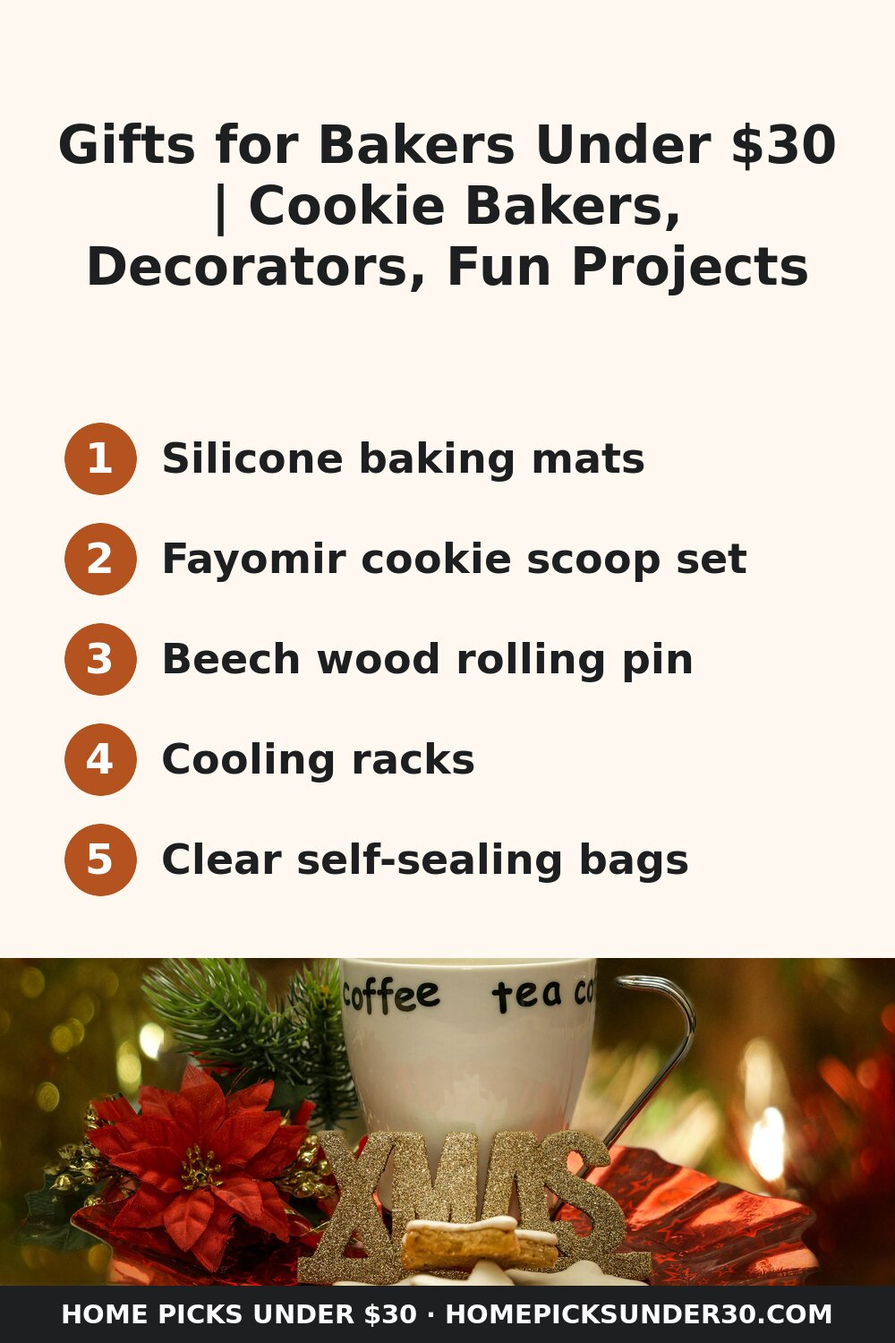
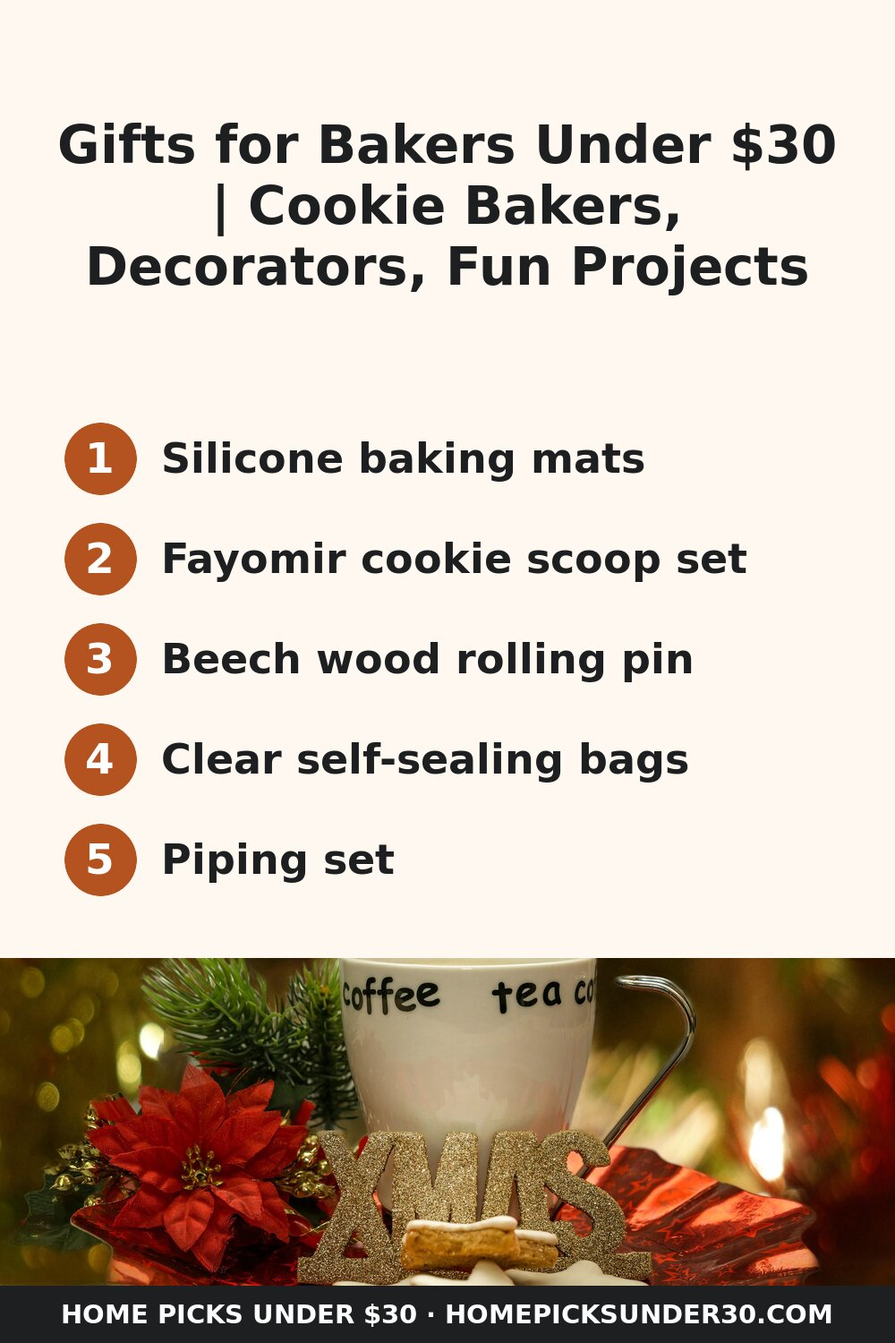
Publish blog fb5fa2de13113cb02a1fbd917edf00115526858e

diff --git a/blog/posts/gifts-for-bakers-under-30/index.html b/blog/posts/gifts-for-bakers-under-30/index.html
@@ -4,11 +4,11 @@
 <meta charset="utf-8">
 <meta name="viewport" content="width=device-width, initial-scale=1">
 <title>Best Gifts for Bakers Under $30 (Cookies, Decorating, Fun)</title>
-<meta name="description" content="Gifts for bakers under $30, sorted by the kind of baker: the Christmas cookie baker, the decorator, the one with scorched oven mitts, and the baker who wants a fun project.">
+<meta name="description" content="Gifts for bakers under $30, sorted by the kind of baker: the Christmas cookie baker, the decorator, the bread baker, the one with scorched oven mitts, and the baker who wants a fun project.">
 <link rel="canonical" href="https://homepicksunder30.com/blog/posts/gifts-for-bakers-under-30/">
 <meta property="og:type" content="article">
 <meta property="og:title" content="Best Gifts for Bakers Under $30 (Cookies, Decorating, Fun)">
-<meta property="og:description" content="Gifts for bakers under $30, sorted by the kind of baker: the Christmas cookie baker, the decorator, the one with scorched oven mitts, and the baker who wants a fun project.">
+<meta property="og:description" content="Gifts for bakers under $30, sorted by the kind of baker: the Christmas cookie baker, the decorator, the bread baker, the one with scorched oven mitts, and the baker who wants a fun project.">
 <meta property="og:url" content="https://homepicksunder30.com/blog/posts/gifts-for-bakers-under-30/">
 <meta property="og:site_name" content="Home Picks Under $30">
 <meta property="og:image" content="https://homepicksunder30.com/blog/images/gifts-for-bakers-under-30-cover.jpg">
@@ -97,7 +97,7 @@ article p img{width:100%;aspect-ratio:3/2;object-fit:cover}
 footer.site{border-top:1px solid var(--line);padding:20px 0 32px;color:var(--muted);font-size:.85rem}
 footer.site a{color:var(--muted)}
 </style>
-<script type="application/ld+json">{"@context":"https://schema.org","@type":"BlogPosting","headline":"Gifts for Bakers Under $30: One Pick for Every Kind of Baker","description":"Gifts for bakers under $30, sorted by the kind of baker: the Christmas cookie baker, the decorator, the one with scorched oven mitts, and the baker who wants a fun project.","datePublished":"2026-10-23","dateModified":"2026-10-23","author":{"@type":"Person","name":"Mak"},"mainEntityOfPage":"https://homepicksunder30.com/blog/posts/gifts-for-bakers-under-30/","image":"https://homepicksunder30.com/blog/images/gifts-for-bakers-under-30-cover.jpg","keywords":"best gifts for bakers under $30"}</script>
+<script type="application/ld+json">{"@context":"https://schema.org","@type":"BlogPosting","headline":"Gifts for Bakers Under $30: One Pick for Every Kind of Baker","description":"Gifts for bakers under $30, sorted by the kind of baker: the Christmas cookie baker, the decorator, the bread baker, the one with scorched oven mitts, and the baker who wants a fun project.","datePublished":"2026-10-23","dateModified":"2026-10-23","author":{"@type":"Person","name":"Mak"},"mainEntityOfPage":"https://homepicksunder30.com/blog/posts/gifts-for-bakers-under-30/","image":"https://homepicksunder30.com/blog/images/gifts-for-bakers-under-30-cover.jpg","keywords":"best gifts for bakers under $30"}</script>
 <script type="application/ld+json">{"@context":"https://schema.org","@type":"FAQPage","mainEntity":[{"@type":"Question","name":"What if I don't know what baking tools they already own?","acceptedAnswer":{"@type":"Answer","text":"Go with the silicone baking mats or the oven mitts. Bakers wear both out, and a second set never goes to waste."}},{"@type":"Question","name":"Is a cookie scoop worth it?","acceptedAnswer":{"@type":"Answer","text":"For someone who bakes cookies often, yes. Same-size dough balls bake at the same rate, so fewer cookies come out burnt or underdone in the same batch."}},{"@type":"Question","name":"Can I put a few small gifts together?","acceptedAnswer":{"@type":"Answer","text":"Yes. The rolling pin plus the scoop set, or the scoop set plus the clear bags, make a nice bundle that stays under a small budget. Add a handwritten recipe card to make it personal. For more ideas, see stocking stuffers for people who cook, gifts for a coffee lover or the kitchen gifts under $30 guide. Pick the baker type, then check the current price on Amazon. For a holiday gift, check the delivery date Amazon shows before you order."}}]}</script>
 </head>
 <body>
@@ -114,7 +114,7 @@ footer.site a{color:var(--muted)}
 <p>Every family has one: the person who bakes six kinds of cookies in December and hands them out in tins. They already own a mixer and a stack of sheet pans. What wears out are the small things they use every batch, and those make the best gifts.</p>
 <p>I haven't used these myself. I picked them from the listings for what each one does, how often a baker would reach for it, and whether it works without knowing what they already own, and I say who each one suits.</p>
 <p><strong>Start here:</strong> most bakers would use the <a href="https://amzn.to/4sjyVd7" rel="sponsored nofollow noopener" target="_blank" data-goatcounter-click="https://amzn.to/4sjyVd7" data-goatcounter-title="Amazon Basics silicone baking mats (4-pack)">Amazon Basics silicone baking mats (4-pack)</a>. Pick the <a href="https://link.amazon/B0bi7rFO2" rel="sponsored nofollow noopener" target="_blank" data-goatcounter-click="https://link.amazon/B0bi7rFO2" data-goatcounter-title="Fayomir cookie scoop set">Fayomir cookie scoop set</a> instead if they bake cookies by the dozen.</p>
-<div class="picks"><p class="picks-title">Quick picks</p><ul><li><span class="pk-label">For any baker, or if you're unsure</span><span class="pk-name">Amazon Basics silicone baking mats (4-pack)</span><a class="pk-btn" href="https://amzn.to/4sjyVd7" rel="sponsored nofollow noopener" target="_blank" data-goatcounter-click="https://amzn.to/4sjyVd7" data-goatcounter-title="Amazon Basics silicone baking mats (4-pack)">Check price on Amazon</a></li><li><span class="pk-label">For the cookie baker</span><span class="pk-name">Fayomir cookie scoop set (1, 2 and 3 Tbsp)</span><a class="pk-btn" href="https://link.amazon/B0bi7rFO2" rel="sponsored nofollow noopener" target="_blank" data-goatcounter-click="https://link.amazon/B0bi7rFO2" data-goatcounter-title="Fayomir cookie scoop set (1, 2 and 3 Tbsp)">Check price on Amazon</a></li><li><span class="pk-label">For the decorator</span><span class="pk-name">Piping bags and tips set (124 pieces)</span><a class="pk-btn" href="https://amzn.to/4dBeBO5" rel="sponsored nofollow noopener" target="_blank" data-goatcounter-click="https://amzn.to/4dBeBO5" data-goatcounter-title="Piping bags and tips set (124 pieces)">Check price on Amazon</a></li><li><span class="pk-label">For scorched old mitts</span><span class="pk-name">GORILLA GRIP silicone oven mitts</span><a class="pk-btn" href="https://amzn.to/47p2NLi" rel="sponsored nofollow noopener" target="_blank" data-goatcounter-click="https://amzn.to/47p2NLi" data-goatcounter-title="GORILLA GRIP silicone oven mitts">Check price on Amazon</a></li><li><span class="pk-label">For a fun project</span><span class="pk-name">Dash Express mini donut maker</span><a class="pk-btn" href="https://amzn.to/4hRGJxR" rel="sponsored nofollow noopener" target="_blank" data-goatcounter-click="https://amzn.to/4hRGJxR" data-goatcounter-title="Dash Express mini donut maker">Check price on Amazon</a></li></ul></div>
+<div class="picks"><p class="picks-title">Quick picks</p><ul><li><span class="pk-label">For any baker, or if you're unsure</span><span class="pk-name">Amazon Basics silicone baking mats (4-pack)</span><a class="pk-btn" href="https://amzn.to/4sjyVd7" rel="sponsored nofollow noopener" target="_blank" data-goatcounter-click="https://amzn.to/4sjyVd7" data-goatcounter-title="Amazon Basics silicone baking mats (4-pack)">Check price on Amazon</a></li><li><span class="pk-label">For the cookie baker</span><span class="pk-name">Fayomir cookie scoop set (1, 2 and 3 Tbsp)</span><a class="pk-btn" href="https://link.amazon/B0bi7rFO2" rel="sponsored nofollow noopener" target="_blank" data-goatcounter-click="https://link.amazon/B0bi7rFO2" data-goatcounter-title="Fayomir cookie scoop set (1, 2 and 3 Tbsp)">Check price on Amazon</a></li><li><span class="pk-label">For the decorator</span><span class="pk-name">Piping bags and tips set (124 pieces)</span><a class="pk-btn" href="https://amzn.to/4dBeBO5" rel="sponsored nofollow noopener" target="_blank" data-goatcounter-click="https://amzn.to/4dBeBO5" data-goatcounter-title="Piping bags and tips set (124 pieces)">Check price on Amazon</a></li><li><span class="pk-label">For scorched old mitts</span><span class="pk-name">GORILLA GRIP silicone oven mitts</span><a class="pk-btn" href="https://amzn.to/47p2NLi" rel="sponsored nofollow noopener" target="_blank" data-goatcounter-click="https://amzn.to/47p2NLi" data-goatcounter-title="GORILLA GRIP silicone oven mitts">Check price on Amazon</a></li><li><span class="pk-label">For the bread baker</span><span class="pk-name">Superbaking banneton proofing baskets (set of 2)</span><a class="pk-btn" href="https://link.amazon/B0ggIqzzC" rel="sponsored nofollow noopener" target="_blank" data-goatcounter-click="https://link.amazon/B0ggIqzzC" data-goatcounter-title="Superbaking banneton proofing baskets (set of 2)">Check price on Amazon</a></li><li><span class="pk-label">For a fun project</span><span class="pk-name">Dash Express mini donut maker</span><a class="pk-btn" href="https://amzn.to/4hRGJxR" rel="sponsored nofollow noopener" target="_blank" data-goatcounter-click="https://amzn.to/4hRGJxR" data-goatcounter-title="Dash Express mini donut maker">Check price on Amazon</a></li></ul></div>
 <h2>Try this tonight: cookies that don't spread flat</h2>
 <ol><li>Scoop the dough into balls the same size, so they all finish baking at the same time. A tablespoon works; a cookie scoop is faster and neater.</li><li>Put the tray of dough balls in the fridge for about 30 minutes before baking. Cold butter melts more slowly in the oven, so the cookies spread less.</li><li>Bake on a lined pan with room between the balls, and leave the cookies on the pan a few minutes before moving them, so they firm up instead of breaking.</li></ol>
 <p>If the batch comes out even and round, the scoops below make it the easy way every time.</p>
@@ -123,19 +123,20 @@ footer.site a{color:var(--muted)}
 <p><strong>Main pick:</strong> <a href="https://amzn.to/4sjyVd7" rel="sponsored nofollow noopener" target="_blank" data-goatcounter-click="https://amzn.to/4sjyVd7" data-goatcounter-title="Amazon Basics silicone baking mats (4-pack)">Amazon Basics silicone baking mats (4-pack)</a>. Four mats means one on every sheet pan during a cookie marathon, instead of washing between batches. <strong>Already have one?</strong> Most bakers use parchment paper and throw it away each batch. A mat lines the pan the same way and gets washed and used again, so it's an upgrade rather than a duplicate.</p>
 <p><strong>New to many people:</strong> the <a href="https://link.amazon/B0bi7rFO2" rel="sponsored nofollow noopener" target="_blank" data-goatcounter-click="https://link.amazon/B0bi7rFO2" data-goatcounter-title="Fayomir cookie scoop set">Fayomir cookie scoop set</a>, with 1, 2 and 3 tablespoon sizes in stainless steel. Plenty of home bakers have never used one: it works like a small ice cream scoop with a spring-loaded release, so each ball of dough comes out the same size and drops straight onto the pan. Skip it if they mostly bake bars and cakes.</p>
 <p><strong>For cut-out cookies:</strong> a <a href="https://link.amazon/B03zin9o7" rel="sponsored nofollow noopener" target="_blank" data-goatcounter-click="https://link.amazon/B03zin9o7" data-goatcounter-title="17.6-inch beech wood rolling pin">17.6-inch beech wood rolling pin</a>. A long pin rolls a whole sheet of dough in fewer passes, so cut-outs come out an even thickness and bake evenly. Skip it if they only make drop cookies.</p>
-<p><strong>For cooling:</strong> <a href="https://amzn.to/3Tzr4v3" rel="sponsored nofollow noopener" target="_blank" data-goatcounter-click="https://amzn.to/3Tzr4v3" data-goatcounter-title="cooling racks, 10 x 15 in (2-pack)">cooling racks, 10 x 15 in (2-pack)</a>. Cookies cool faster with air underneath, and the listing says the racks are oven safe, so they also work for roasting on a rack inside a sheet pan.</p>
 <p><strong>For handing them out:</strong> <a href="https://amzn.to/47ihAYc" rel="sponsored nofollow noopener" target="_blank" data-goatcounter-click="https://amzn.to/47ihAYc" data-goatcounter-title="clear self-sealing bags, 5 x 7 in (200-pack)">clear self-sealing bags, 5 x 7 in (200-pack)</a>. One batch becomes a dozen small gifts for neighbors and coworkers.</p>
 <h2>What do you get a baker who loves decorating?</h2>
 <p><img src="/blog/images/gifts-for-bakers-under-30-1.jpg" alt="Iced gingerbread cookies with white piping" loading="lazy" decoding="async"></p>
 <p><strong>Main pick:</strong> the <a href="https://amzn.to/4dBeBO5" rel="sponsored nofollow noopener" target="_blank" data-goatcounter-click="https://amzn.to/4dBeBO5" data-goatcounter-title="piping bags and tips set (124 pieces, 16 tips, 100 bags)">piping bags and tips set (124 pieces, 16 tips, 100 bags)</a>. It covers cookies, cupcakes and donuts, and it's a big box that looks generous under the tree. Skip it if they already have a full tip collection; get the scoops instead.</p>
 <p><strong>For someone who wants to try cakes:</strong> the <a href="https://link.amazon/B0i6ciZKP" rel="sponsored nofollow noopener" target="_blank" data-goatcounter-click="https://link.amazon/B0i6ciZKP" data-goatcounter-title="RFAQK 90-piece cake decorating kit">RFAQK 90-piece cake decorating kit</a>. It's built for beginners, and the listing says it comes with a video course, so it suits someone who has decorated cookies and wants to try a layer cake next. Skip it if they already decorate cakes; get the piping set instead.</p>
 <p><strong>For the stocking:</strong> the <a href="https://amzn.to/4scC2Df" rel="sponsored nofollow noopener" target="_blank" data-goatcounter-click="https://amzn.to/4scC2Df" data-goatcounter-title="Microplane Premium Classic zester">Microplane Premium Classic zester</a>. Citrus zest for icing, fresh nutmeg and chocolate shavings on top, all from one small tool.</p>
+<h2>What do you get someone who bakes bread?</h2>
+<p><strong>Main pick:</strong> the <a href="https://link.amazon/B0ggIqzzC" rel="sponsored nofollow noopener" target="_blank" data-goatcounter-click="https://link.amazon/B0ggIqzzC" data-goatcounter-title="Superbaking 9-inch round banneton proofing baskets (set of 2)">Superbaking 9-inch round banneton proofing baskets (set of 2)</a>. A banneton is a basket the shaped dough rises in before baking. It holds a round loaf's shape and leaves the floured spiral pattern you see on bakery sourdough. With two baskets they can proof two loaves at once. Skip it if they bake only sandwich bread in loaf pans.</p>
 <h2>What do you get a baker whose oven mitts are scorched?</h2>
 <p><strong>Main pick:</strong> <a href="https://amzn.to/47p2NLi" rel="sponsored nofollow noopener" target="_blank" data-goatcounter-click="https://amzn.to/47p2NLi" data-goatcounter-title="GORILLA GRIP silicone oven mitts">GORILLA GRIP silicone oven mitts</a>. The listing says they're heat resistant to 550°F. <strong>Already have one?</strong> Most people own thin cloth mitts that stain and let the heat through once they get damp. Silicone wipes clean and doesn't soak up spills, so it's worth replacing an old pair.</p>
 <h2>What's a fun baking gift rather than a practical one?</h2>
 <p><strong>Main pick:</strong> the <a href="https://amzn.to/4hRGJxR" rel="sponsored nofollow noopener" target="_blank" data-goatcounter-click="https://amzn.to/4hRGJxR" data-goatcounter-title="Dash Express mini donut maker">Dash Express mini donut maker</a>. It makes 7 small donuts at a time on the counter, no oven needed, which makes it a good family gift. For donut ideas with kids, see <a href="https://homepicksunder30.com/blog/posts/kitchen-gadgets-treats-with-kids/" rel="noopener" target="_blank">weekend baking with kids</a>.</p>
 <h2>How do these baking gifts compare?</h2>
-<div class="table-wrap"><table><thead><tr><th>Gift</th><th>Best for</th><th>Skip it if</th></tr></thead><tbody><tr><td><a href="https://amzn.to/4sjyVd7" rel="sponsored nofollow noopener" target="_blank" data-goatcounter-click="https://amzn.to/4sjyVd7" data-goatcounter-title="Silicone baking mats (4-pack)">Silicone baking mats (4-pack)</a></td><td>Any baker, unsure gifts</td><td>They already use mats</td></tr><tr><td><a href="https://link.amazon/B0bi7rFO2" rel="sponsored nofollow noopener" target="_blank" data-goatcounter-click="https://link.amazon/B0bi7rFO2" data-goatcounter-title="Fayomir cookie scoop set">Fayomir cookie scoop set</a></td><td>Cookie bakers</td><td>They mostly bake cakes and bars</td></tr><tr><td><a href="https://link.amazon/B03zin9o7" rel="sponsored nofollow noopener" target="_blank" data-goatcounter-click="https://link.amazon/B03zin9o7" data-goatcounter-title="Beech wood rolling pin">Beech wood rolling pin</a></td><td>Cut-out and sugar cookies</td><td>They only make drop cookies</td></tr><tr><td><a href="https://amzn.to/3Tzr4v3" rel="sponsored nofollow noopener" target="_blank" data-goatcounter-click="https://amzn.to/3Tzr4v3" data-goatcounter-title="Cooling racks (2-pack)">Cooling racks (2-pack)</a></td><td>Cookies, pies, rolls</td><td>They have racks they like</td></tr><tr><td><a href="https://amzn.to/47ihAYc" rel="sponsored nofollow noopener" target="_blank" data-goatcounter-click="https://amzn.to/47ihAYc" data-goatcounter-title="Clear self-sealing bags (200-pack)">Clear self-sealing bags (200-pack)</a></td><td>Bakers who give cookies away</td><td>They give in tins</td></tr><tr><td><a href="https://amzn.to/4dBeBO5" rel="sponsored nofollow noopener" target="_blank" data-goatcounter-click="https://amzn.to/4dBeBO5" data-goatcounter-title="Piping set (124 pieces)">Piping set (124 pieces)</a></td><td>Decorators</td><td>They have a full tip collection</td></tr><tr><td><a href="https://link.amazon/B0i6ciZKP" rel="sponsored nofollow noopener" target="_blank" data-goatcounter-click="https://link.amazon/B0i6ciZKP" data-goatcounter-title="RFAQK cake decorating kit (90 pieces)">RFAQK cake decorating kit (90 pieces)</a></td><td>Beginner cake decorators</td><td>They already decorate cakes</td></tr><tr><td><a href="https://amzn.to/4scC2Df" rel="sponsored nofollow noopener" target="_blank" data-goatcounter-click="https://amzn.to/4scC2Df" data-goatcounter-title="Microplane zester">Microplane zester</a></td><td>Stocking stuffer</td><td>They already own one</td></tr><tr><td><a href="https://amzn.to/47p2NLi" rel="sponsored nofollow noopener" target="_blank" data-goatcounter-click="https://amzn.to/47p2NLi" data-goatcounter-title="GORILLA GRIP oven mitts">GORILLA GRIP oven mitts</a></td><td>Anyone with worn mitts</td><td>They bought new mitts this year</td></tr><tr><td><a href="https://amzn.to/4hRGJxR" rel="sponsored nofollow noopener" target="_blank" data-goatcounter-click="https://amzn.to/4hRGJxR" data-goatcounter-title="Dash mini donut maker">Dash mini donut maker</a></td><td>Families, fun gifts</td><td>They're short on counter space</td></tr></tbody></table></div>
+<div class="table-wrap"><table><thead><tr><th>Gift</th><th>Best for</th><th>Skip it if</th></tr></thead><tbody><tr><td><a href="https://amzn.to/4sjyVd7" rel="sponsored nofollow noopener" target="_blank" data-goatcounter-click="https://amzn.to/4sjyVd7" data-goatcounter-title="Silicone baking mats (4-pack)">Silicone baking mats (4-pack)</a></td><td>Any baker, unsure gifts</td><td>They already use mats</td></tr><tr><td><a href="https://link.amazon/B0bi7rFO2" rel="sponsored nofollow noopener" target="_blank" data-goatcounter-click="https://link.amazon/B0bi7rFO2" data-goatcounter-title="Fayomir cookie scoop set">Fayomir cookie scoop set</a></td><td>Cookie bakers</td><td>They mostly bake cakes and bars</td></tr><tr><td><a href="https://link.amazon/B03zin9o7" rel="sponsored nofollow noopener" target="_blank" data-goatcounter-click="https://link.amazon/B03zin9o7" data-goatcounter-title="Beech wood rolling pin">Beech wood rolling pin</a></td><td>Cut-out and sugar cookies</td><td>They only make drop cookies</td></tr><tr><td><a href="https://amzn.to/47ihAYc" rel="sponsored nofollow noopener" target="_blank" data-goatcounter-click="https://amzn.to/47ihAYc" data-goatcounter-title="Clear self-sealing bags (200-pack)">Clear self-sealing bags (200-pack)</a></td><td>Bakers who give cookies away</td><td>They give in tins</td></tr><tr><td><a href="https://amzn.to/4dBeBO5" rel="sponsored nofollow noopener" target="_blank" data-goatcounter-click="https://amzn.to/4dBeBO5" data-goatcounter-title="Piping set (124 pieces)">Piping set (124 pieces)</a></td><td>Decorators</td><td>They have a full tip collection</td></tr><tr><td><a href="https://link.amazon/B0i6ciZKP" rel="sponsored nofollow noopener" target="_blank" data-goatcounter-click="https://link.amazon/B0i6ciZKP" data-goatcounter-title="RFAQK cake decorating kit (90 pieces)">RFAQK cake decorating kit (90 pieces)</a></td><td>Beginner cake decorators</td><td>They already decorate cakes</td></tr><tr><td><a href="https://amzn.to/4scC2Df" rel="sponsored nofollow noopener" target="_blank" data-goatcounter-click="https://amzn.to/4scC2Df" data-goatcounter-title="Microplane zester">Microplane zester</a></td><td>Stocking stuffer</td><td>They already own one</td></tr><tr><td><a href="https://link.amazon/B0ggIqzzC" rel="sponsored nofollow noopener" target="_blank" data-goatcounter-click="https://link.amazon/B0ggIqzzC" data-goatcounter-title="Banneton proofing baskets (2-pack)">Banneton proofing baskets (2-pack)</a></td><td>Sourdough and round loaves</td><td>They bake only in loaf pans</td></tr><tr><td><a href="https://amzn.to/47p2NLi" rel="sponsored nofollow noopener" target="_blank" data-goatcounter-click="https://amzn.to/47p2NLi" data-goatcounter-title="GORILLA GRIP oven mitts">GORILLA GRIP oven mitts</a></td><td>Anyone with worn mitts</td><td>They bought new mitts this year</td></tr><tr><td><a href="https://amzn.to/4hRGJxR" rel="sponsored nofollow noopener" target="_blank" data-goatcounter-click="https://amzn.to/4hRGJxR" data-goatcounter-title="Dash mini donut maker">Dash mini donut maker</a></td><td>Families, fun gifts</td><td>They're short on counter space</td></tr></tbody></table></div>
 <h2>Frequently asked questions</h2>
 <h3>What if I don't know what baking tools they already own?</h3>
 <p>Go with the silicone baking mats or the oven mitts. Bakers wear both out, and a second set never goes to waste.</p>

diff --git a/blog/pins/index.html b/blog/pins/index.html
@@ -1148,10 +1148,10 @@ textarea{display:block;width:100%;box-sizing:border-box;margin-top:4px;font:inhe
 <p class="hint">Three or four Pinterest designs per post (design 4 is the numbered list), newest first, with the text for each post's first pin.</p>
 <section>
 <h2>Gifts for Bakers Under $30: One Pick for Every Kind of Baker</h2>
-<div class="pins"><a href="gifts-for-bakers-under-30-1.jpg?v=cc73210a" download="gifts-for-bakers-under-30-1.jpg"><img src="gifts-for-bakers-under-30-1.jpg?v=cc73210a" alt="Pin design for Gifts for Bakers Under $30: One Pick for Every Kind of Baker" loading="lazy" width="200" height="300"></a><a href="gifts-for-bakers-under-30-2.jpg?v=d789cd6d" download="gifts-for-bakers-under-30-2.jpg"><img src="gifts-for-bakers-under-30-2.jpg?v=d789cd6d" alt="Pin design for Gifts for Bakers Under $30: One Pick for Every Kind of Baker" loading="lazy" width="200" height="300"></a><a href="gifts-for-bakers-under-30-3.jpg?v=1c6429a9" download="gifts-for-bakers-under-30-3.jpg"><img src="gifts-for-bakers-under-30-3.jpg?v=1c6429a9" alt="Pin design for Gifts for Bakers Under $30: One Pick for Every Kind of Baker" loading="lazy" width="200" height="300"></a><a href="gifts-for-bakers-under-30-4.jpg?v=96d86917" download="gifts-for-bakers-under-30-4.jpg"><img src="gifts-for-bakers-under-30-4.jpg?v=96d86917" alt="Pin design for Gifts for Bakers Under $30: One Pick for Every Kind of Baker" loading="lazy" width="200" height="300"></a></div>
+<div class="pins"><a href="gifts-for-bakers-under-30-1.jpg?v=cc73210a" download="gifts-for-bakers-under-30-1.jpg"><img src="gifts-for-bakers-under-30-1.jpg?v=cc73210a" alt="Pin design for Gifts for Bakers Under $30: One Pick for Every Kind of Baker" loading="lazy" width="200" height="300"></a><a href="gifts-for-bakers-under-30-2.jpg?v=d789cd6d" download="gifts-for-bakers-under-30-2.jpg"><img src="gifts-for-bakers-under-30-2.jpg?v=d789cd6d" alt="Pin design for Gifts for Bakers Under $30: One Pick for Every Kind of Baker" loading="lazy" width="200" height="300"></a><a href="gifts-for-bakers-under-30-3.jpg?v=1c6429a9" download="gifts-for-bakers-under-30-3.jpg"><img src="gifts-for-bakers-under-30-3.jpg?v=1c6429a9" alt="Pin design for Gifts for Bakers Under $30: One Pick for Every Kind of Baker" loading="lazy" width="200" height="300"></a><a href="gifts-for-bakers-under-30-4.jpg?v=4b323c08" download="gifts-for-bakers-under-30-4.jpg"><img src="gifts-for-bakers-under-30-4.jpg?v=4b323c08" alt="Pin design for Gifts for Bakers Under $30: One Pick for Every Kind of Baker" loading="lazy" width="200" height="300"></a></div>
 <p class="hint">Tap an image to download it. Pin one design now and the others in the coming weeks.</p>
 <div class="field"><div class="row"><span>Title</span><button type="button" class="copy">Copy</button></div><textarea rows="3" readonly aria-label="Title">Gifts for Bakers Under $30 | Cookie Bakers, Decorators, Fun Projects</textarea></div>
-<div class="field"><div class="row"><span>Description</span><button type="button" class="copy">Copy</button></div><textarea rows="5" readonly aria-label="Description">Gifts for bakers under $30, matched to the kind of baker. Cookie baker: silicone baking mats and a 3-size cookie scoop set. Decorator: a 124-piece piping set. Scorched mitts: silicone oven mitts. Beginner cake decorator: a 90-piece cake decorating kit. Fun project: a mini donut maker. Plus a zester for the stocking. Check the current price on Amazon. As an Amazon Associate I earn from qualifying purchases.</textarea></div>
+<div class="field"><div class="row"><span>Description</span><button type="button" class="copy">Copy</button></div><textarea rows="5" readonly aria-label="Description">Gifts for bakers under $30, matched to the kind of baker. Cookie baker: silicone baking mats and a 3-size cookie scoop set. Decorator: a 124-piece piping set. Bread baker: a pair of banneton proofing baskets. Scorched mitts: silicone oven mitts. Beginner cake decorator: a 90-piece cake decorating kit. Fun project: a mini donut maker. Plus a zester for the stocking. Check the current price on Amazon. As an Amazon Associate I earn from qualifying purchases.</textarea></div>
 <div class="field"><div class="row"><span>Link</span><button type="button" class="copy">Copy</button></div><textarea rows="2" readonly aria-label="Link">https://homepicksunder30.com/blog/posts/gifts-for-bakers-under-30/</textarea></div>
 <p class="hint">Suggested board: Kitchen Gift Ideas Under $30</p>
 <p class="hint">Tagged topics: <strong>gift ideas · kitchen gifts · gifts for cooks · christmas gift ideas · kitchen gadgets</strong><br>Type each one into "Tagged topics" and pick the closest match.</p>

diff --git a/blog/index.html b/blog/index.html
@@ -122,7 +122,7 @@ footer.site a{color:var(--muted)}
 <ul class="chips"><li><a href="/blog/topics/weeknight-dinners/">Easy Weeknight Dinner Gadgets</a></li><li><a href="/blog/topics/meal-prep/">Meal Prep &amp; Leftovers</a></li><li><a href="/blog/topics/quick-breakfasts/">Quick Breakfasts</a></li><li><a href="/blog/topics/work-lunches/">Work Lunches</a></li><li><a href="/blog/topics/microwave-meals/">Microwave Meals &amp; No-Stove Cooking</a></li><li><a href="/blog/topics/cooking-for-one/">Cooking for One &amp; Small Kitchens</a></li><li><a href="/blog/topics/snacks-and-treats/">Movie Night Snacks &amp; Treats</a></li><li><a href="/blog/topics/halloween/">Halloween Party Food</a></li><li><a href="/blog/topics/thanksgiving/">Thanksgiving Prep &amp; Hosting</a></li><li><a href="/blog/topics/gift-ideas/">Kitchen Gift Ideas Under $30</a></li></ul>
 <h2 class="sec">All posts</h2>
 <ul class="cards feature"><li><a href="/blog/posts/gifts-for-bakers-under-30/"><img src="/blog/images/gifts-for-bakers-under-30-cover.jpg" alt="" loading="eager">
-<div class="txt"><span class="tag">Kitchen Gift Ideas Under $30</span><span class="title">Gifts for Bakers Under $30: One Pick for Every Kind of Baker</span><p>Gifts for bakers under $30, sorted by the kind of baker: the Christmas cookie baker, the decorator, the one with scorched oven mitts, and the baker who wants a fun project.</p></div></a></li>
+<div class="txt"><span class="tag">Kitchen Gift Ideas Under $30</span><span class="title">Gifts for Bakers Under $30: One Pick for Every Kind of Baker</span><p>Gifts for bakers under $30, sorted by the kind of baker: the Christmas cookie baker, the decorator, the bread baker, the one with scorched oven mitts, and the baker who wants a fun project.</p></div></a></li>
 <li><a href="/blog/posts/gifts-coffee-lover-under-30/"><img src="/blog/images/dideechen-coffee.jpg" alt="" loading="eager">
 <div class="txt"><span class="tag">Kitchen Gift Ideas Under $30</span><span class="title">Gifts for a Coffee Lover Under $30: One Pick for Every Kind of Coffee Drinker</span><p>Gifts for a coffee lover under $30, sorted by how they drink it: latte lover, pour-over fan, commuter or desk worker, and Keurig owner.</p></div></a></li>
 <li><a href="/blog/posts/stocking-stuffers-for-people-who-cook/"><img src="/blog/images/kaboompics-cookies.jpg" alt="" loading="eager">

diff --git a/blog/topics/gift-ideas/index.html b/blog/topics/gift-ideas/index.html
@@ -107,7 +107,7 @@ footer.site a{color:var(--muted)}
 <h1>Kitchen Gift Ideas Under $30</h1>
 <p>Kitchen gifts under $30 for people who cook, grouped by who you're shopping for.</p>
 <ul class="cards"><li><a href="/blog/posts/gifts-for-bakers-under-30/"><img src="/blog/images/gifts-for-bakers-under-30-cover.jpg" alt="" loading="eager">
-<div class="txt"><span class="tag">Kitchen Gift Ideas Under $30</span><span class="title">Gifts for Bakers Under $30: One Pick for Every Kind of Baker</span><p>Gifts for bakers under $30, sorted by the kind of baker: the Christmas cookie baker, the decorator, the one with scorched oven mitts, and the baker who wants a fun project.</p></div></a></li>
+<div class="txt"><span class="tag">Kitchen Gift Ideas Under $30</span><span class="title">Gifts for Bakers Under $30: One Pick for Every Kind of Baker</span><p>Gifts for bakers under $30, sorted by the kind of baker: the Christmas cookie baker, the decorator, the bread baker, the one with scorched oven mitts, and the baker who wants a fun project.</p></div></a></li>
 <li><a href="/blog/posts/gifts-coffee-lover-under-30/"><img src="/blog/images/dideechen-coffee.jpg" alt="" loading="eager">
 <div class="txt"><span class="tag">Kitchen Gift Ideas Under $30</span><span class="title">Gifts for a Coffee Lover Under $30: One Pick for Every Kind of Coffee Drinker</span><p>Gifts for a coffee lover under $30, sorted by how they drink it: latte lover, pour-over fan, commuter or desk worker, and Keurig owner.</p></div></a></li>
 <li><a href="/blog/posts/stocking-stuffers-for-people-who-cook/"><img src="/blog/images/kaboompics-cookies.jpg" alt="" loading="eager">
